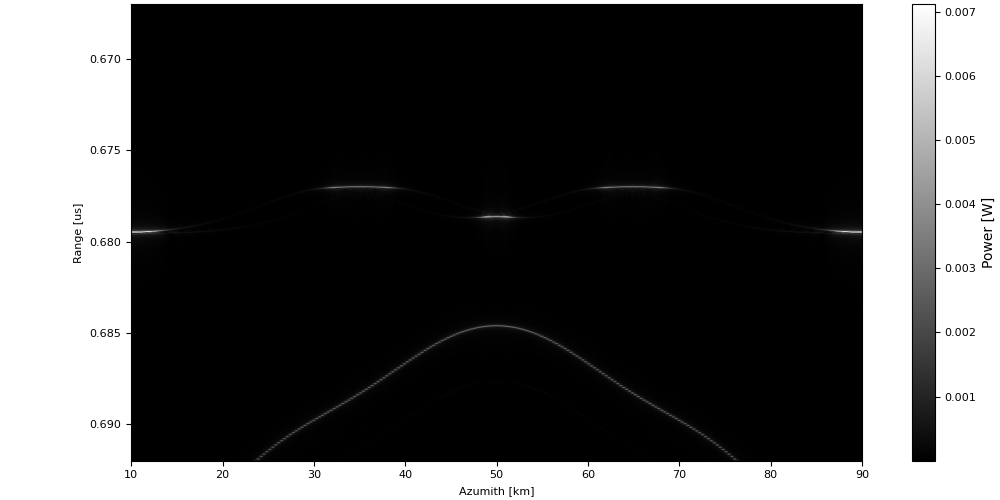
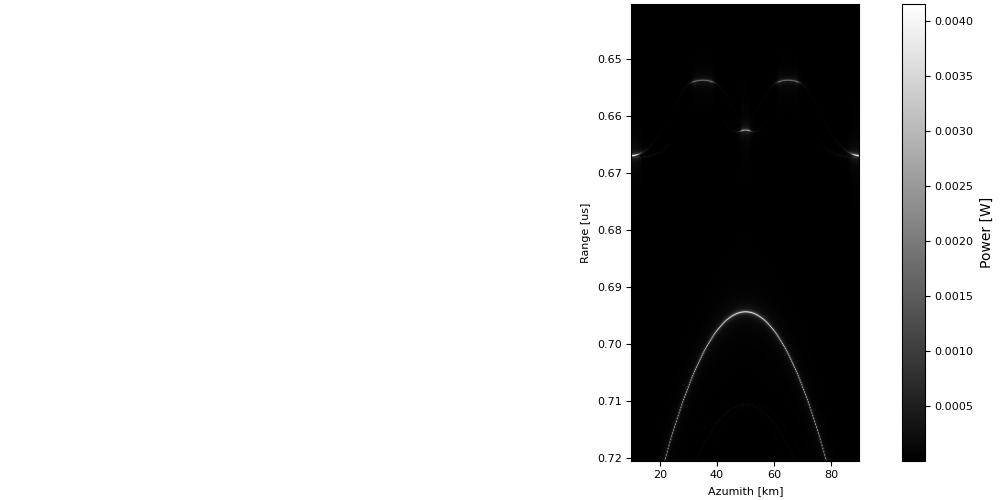
Fixed GPU bug causing extreme point target distortion

diff --git a/src/simulator.py b/src/simulator.py
@@ -1,6 +1,15 @@
 import numpy as np
 import plotly.graph_objects as go # type: ignore
 import matplotlib.pyplot as plt
+import matplotlib
+
+#matplotlib.use("pgf")
+#matplotlib.rcParams.update({
+#    "pgf.texsystem": "pdflatex",
+#    'font.family': 'serif',
+#    'text.usetex': True,
+#    'pgf.rcfonts': False,
+#})
 
 from math import sqrt
 from time import time as Time
@@ -214,7 +223,7 @@ def run_sim_terrain(terrain, dims, sources, target, reflect=True, progress=True,
             aspect = par['aspect']
         else:
             aspect = 0.5
-        extent = (xmin, xmax, np.max(ts) / 1e-6, np.min(ts) / 1e-6)
+        extent = (xmin, xmax, model.t_en, model.t_st)
         fig, ax = plt.subplots(1, figsize=(10, 5), constrained_layout=True)
         im = ax.imshow(np.abs(rdrgrm), cmap="gray", aspect=aspect, extent=extent, vmax=np.percentile(np.abs(rdrgrm), 99.99))
         ax.set_xlabel("Azumith [km]", fontsize=8)
@@ -238,7 +247,7 @@ def run_sim_terrain(terrain, dims, sources, target, reflect=True, progress=True,
     elif refl_dist:
         output.append(refl_dists)
     else:
-        output.append(model.ts)
+        output.append(ts)
 
     return output
 
@@ -361,6 +370,10 @@ class Model():
         if "sampling"         in par: self.sampling         = par['sampling']
         if "range_resolution" in par: self.range_resolution = par['range_resolution']
         if "lambda"           in par: self.lam              = par['lambda']
+
+        # start and end times in microseconds for the rx window
+        self.t_st = 2 * (self.rx_window_offset / self.c) * 10 ** 6
+        self.t_en = 2 * ((self.rx_window_offset + self.rx_window_m) / self.c) * 10 ** 6
 
         # angular wavenumber
         self.k                = (2 * np.pi) / self.lam
@@ -571,11 +584,21 @@ class Model():
     
         return rp
 
-    def gen_s2f_cpu(self, offsetx=0, offsety=0):
+    def gen_s2f_cpu(self, refl=False, offsetx=0, offsety=0, force_normal=True):
 
-        rp_s2f_C = np.stack(((self.source.x - self.surface.X) + offsetx, 
-                             (self.source.y - self.surface.Y) + offsety,
-                             (self.source.z - self.surface.zs)))
+        if not self.refl_surf or force_normal:
+            rp_s2f_C = np.stack(((self.source.x - self.surface.X) + offsetx, 
+                                 (self.source.y - self.surface.Y) + offsety,
+                                 (self.source.z - self.surface.zs)))
+        elif refl == False:
+            rp_s2f_C = np.stack(((np.asarray(self.source.x) - np.asarray(self.refr_surf.X)) + offsetx, 
+                                (np.asarray(self.source.y) - np.asarray(self.refr_surf.Y)) + offsety,
+                                (np.asarray(self.source.z) - np.asarray(self.refr_surf.zs))))
+        elif refl == True:
+            rp_s2f_C = np.stack(((np.asarray(self.source.x) - np.asarray(self.refl_surf.X)) + offsetx, 
+                                (np.asarray(self.source.y) - np.asarray(self.refl_surf.Y)) + offsety,
+                                (np.asarray(self.source.z) - np.asarray(self.refl_surf.zs))))
+    
         rp_s2f_S = cart_to_sp(rp_s2f_C, vec=True)
         # reverse of source to facet
         rp_s2f_S = cart_to_sp(-1 * rp_s2f_C, vec=True)
@@ -591,7 +614,9 @@ class Model():
         surf_norms_SR = cart_to_sp(surf_norms * -1, vec=True)
 
         # first we need the raypath from source to facet
-        rp_s2f_C, rp_s2f_S = self.gen_s2f_cpu()
+        rp_s2f_C, rp_s2f_S = self.gen_s2f_cpu(False, force_normal=False)
+
+        #print(np.mean(rp_s2f_S[0, :, :]))
 
         rp_s2f_S_rF = rp_s2f_S - surf_norms_S
         rp_s2f_S_rF[2, :, :] -= np.pi
@@ -625,16 +650,17 @@ class Model():
             re = np.abs(rho_v)**2
             tr = 1 - re
 
+        # generate array for % energy transmitted
+        if self.polarization is None:
+            tr = np.ones_like(self.surface.zs) * self.tau * self.tau_rev
+            re = 1 - tr
+
         # manipulate coefficients if surface roughness enabled
         if self.rough == True:
             psi_1 = self.ks * np.cos(theta_1)
             re *= np.exp(-4 * psi_1**2)
             psi_2 = self.ks * np.cos(theta_2)
             tr *= np.exp(-4 * psi_2**2)
-
-        # generate array for % energy transmitted
-        if self.polarization is None:
-            tr = np.ones_like(self.surface.zs) * self.tau * self.tau_rev
 
         facet_incident = cart_to_sp(rp_f2t_CN, vec=True)
 
@@ -687,6 +713,7 @@ class Model():
         self.comp_val = np.copy(tr)
         self.path_time = (rp_s2f_S[0, :, :] / self.c1 + rp_f2t_S[0, :, :] / self.c2) * 2
         self.slant_range = rp_s2f_S[0, :, :] + rp_f2t_S[0, :, :]
+        self.refr_atm_slant_range = rp_s2f_S[0, :, :]
         self.refr_dth  = rp_f2t_SD_rF[1, :, :]
         self.refr_dph  = rp_f2t_SD_rF[2, :, :]
         
@@ -703,6 +730,26 @@ class Model():
 
                 rp_s2f_S_rF = rp_s2f_S - surf_norms_S
                 rp_s2f_S_rF[2, :, :] -= cp.pi
+
+            elif self.refr_surf:
+
+                rp_s2f_C, rp_s2f_S = self.gen_s2f_cpu(True, force_normal=False)
+                rp_s2f_S_rF = rp_s2f_S - surf_norms_S
+                rp_s2f_S_rF[2, :, :] -= np.pi
+
+                # if using a difference surface for refraction calculations we need to compute the 
+                # reflection coefficients differently
+                theta_1 = rp_s2f_S_rF[2, :, :]
+
+                # temporary theta_2 to just make things work
+                theta_2 = -0.35
+
+                if self.polarization == "h":
+                    rho_h = (self.nu2 * np.cos(theta_1) - self.nu1 * np.cos(theta_2)) / (self.nu2 * np.cos(theta_1) + self.nu1 * np.cos(theta_2))
+                    re = np.abs(rho_h)**2
+                elif self.polarization == "v":
+                    rho_v = (self.nu2 * np.cos(theta_2) - self.nu1 * np.cos(theta_1)) / (self.nu2 * np.cos(theta_2) + self.nu1 * np.cos(theta_1))
+                    re = np.abs(rho_v)**2
             
             if self.polarization is None:
                 # generate array for % energy reflected
@@ -785,14 +832,14 @@ class Model():
             rho_v = (self.nu2 * cp.cos(theta_2) - self.nu1 * cp.cos(theta_1)) / (self.nu2 * cp.cos(theta_2) + self.nu1 * cp.cos(theta_1))
             tr = 1 - cp.abs(rho_v)**2
 
+        # default transmission coefficient
+        if self.polarization is None:
+            tr = cp.ones_like(cp.asarray(self.surface.zs)) * self.tau * self.tau_rev
+
         # surface roughness
         if self.rough:
             psi_2 = self.ks * cp.cos(theta_2)
             tr *= cp.exp(-4 * psi_2**2)
-
-        # default transmission coefficient
-        if self.polarization is None:
-            tr = cp.ones_like(cp.asarray(self.surface.zs)) * self.tau * self.tau_rev
 
         facet_incident = cart_to_sp(rp_f2t_CN, vec=True)
 
@@ -835,6 +882,7 @@ class Model():
         self.comp_val = cp.asnumpy(cp.copy(tr))
         self.path_time = cp.asnumpy((rp_s2f_S[0, :, :] / self.c1 + rp_f2t_S[0, :, :] / self.c2) * 2)
         self.slant_range = rp_s2f_S[0, :, :] + rp_f2t_S[0, :, :]
+        self.refr_atm_slant_range = rp_s2f_S[0, :, :]
         self.refr_dth  = cp.asnumpy(rp_f2t_SD_rF[1, :, :])
         self.refr_dph  = cp.asnumpy(rp_f2t_SD_rF[2, :, :])
         
@@ -1196,7 +1244,7 @@ class Model():
             max_idx = np.argmax(self.tr)
             rb_max, trc_max = np.unravel_index(max_idx, self.tr.shape)
             # compute the effective slant range - correcting for velocity change in subsurface
-            eff_slant_range = self.refl_slant_range + (self.slant_range - self.refl_slant_range) * (self.c1 / self.c2)
+            eff_slant_range = self.refr_atm_slant_range + (self.slant_range - self.refr_atm_slant_range) * (self.c1 / self.c2)
             refrwav, self.phase_hist = compute_wav(self.tr, eff_slant_range, self.ssl, self.range_resolution, self.lam, rb_max, trc_max)
             sig_s += refrwav
             sig_t += sig_s
@@ -1301,7 +1349,7 @@ class Model():
             max_idx = cp.argmax(self.tr)
             rb_max, trc_max = cp.unravel_index(max_idx, self.tr.shape)
 
-            eff_slant_range = self.refl_slant_range + (self.slant_range - self.refl_slant_range) * (self.c1 / self.c2)
+            eff_slant_range = self.refr_atm_slant_range + (self.slant_range - self.refr_atm_slant_range) * (self.c1 / self.c2)
 
             refrwav, self.phase_hist = compute_wav_gpu(self.tr, eff_slant_range, cp.asarray(self.ssl),
                                                    self.range_resolution, self.lam, rb_max, trc_max)

diff --git a/examples/double_ridge/double_ridge.py b/examples/double_ridge/double_ridge.py
@@ -5,6 +5,7 @@ from terrain import *
 from surface import *
 from source import *
 from simulator import *
+from focus import *
 
 # --- GENERATE TERRAIN OBJECT ---
 
@@ -25,8 +26,10 @@ terrain.double_ridge(2, 2, 30, 20, 50)
 
 f0 = 5e9
 B  = 6e9
+N  = 250
+stx, enx = 10, 90
 
-ss = source_linspace('x', 10, 90, 0, 100, 250, f0, B)
+ss = source_linspace('x', stx, enx, 0, 100, N, f0, B)
 
 # target location
 t = (50, 0, -2)   # target location (x, y, z)
@@ -41,18 +44,69 @@ ss[0].plot(savefig="chirp.png")
 
 # --- CHANGE SIM PARS ---
 
-Rr = 299792458 / (2 * B)
+c        = 299792458   # speed of light [m/s]
+lam      = 0.06        # wavelength [m]
+rng_st   = 96          # starting range [m]
+rng_en   = 108         # ending range [m]
+rng_res  = c / (2 * B) # range resolution [m]
+sampl    = 25e9        # sampling rate [Hz]
+dt       = 1 / sampl   # time interval [s]
+dt_m     = dt * c      # space interval [m]
+
+# how many range bins?
+rb = int(((rng_en - rng_st) / c) / (1 / sampl))
 
 par = {
-    "rx_window_offset": 90,   # [m]
-    "rx_window_m"     : 20,   # [m]
-    "sampling"        : 15e9,  # [Hz]
-    "range_resolution": Rr,  # [m]
+    "rx_window_offset": rng_st,   # [m]
+    "rx_window_m"     : rng_en-rng_st,   # [m]
+    "sampling"        : sampl,  # [Hz]
+    "range_resolution": rng_res,  # [m]
     "lambda"          : 0.06, # [m]
     "aspect"          : 2000,   # [.]
-    "surf_gain"       : 98,
+    "surf_gain"       : 96,
 }
 
 rdrgrm, ts = run_sim_terrain(terrain, dims, ss, t, reflect=True, polarization='h',
                              xmin=10, xmax=90, gpu=True, savefig="rdrgrm-doubleridge.png", 
-                             rough=False, nsmpl=1000, par=par)
+                             rough=False, nsmpl=rb, par=par)
+
+# --- ATTEMPT TO FOCUS --
+
+sx = np.linspace(stx, enx, N)
+sz = 100
+c1 = 299792458
+c2 = c1 / np.sqrt(3.15)
+slantrange_est = est_slant_range(sx, sz, t[0], t[2], c1, c2)
+slantrange_time = 2 * 10**6 * slantrange_est / c1
+
+slant_rb = ((slantrange_est - rng_st) // dt_m).astype(int)
+
+k = (2 * np.pi) / par['lambda']
+
+match_filter = np.exp(-2j * k * slantrange_est)
+
+focused = focus_jit(rdrgrm, slant_rb, match_filter, rb)
+
+extent = (10, 90, 2*(rng_en/c)*10**6, 2*(rng_st/c)*10**6)
+fig, ax = plt.subplots(2, 1, figsize=(10, 6), constrained_layout=True, dpi=300, sharex=True)
+
+im0 = ax[0].imshow(np.abs(rdrgrm), cmap="gray", aspect=par['aspect']/3, extent=extent)
+im1 = ax[1].imshow(np.abs(focused), cmap="gray", aspect=par['aspect']/3, extent=extent)
+
+labels = ["(a) Unfocused", "(b) Focused"]
+for a, label in zip(ax, labels):
+    a.set_ylabel("Range [µs]", fontsize=11)
+    a.tick_params(axis="both", which="major", labelsize=9, direction="in")
+    a.tick_params(axis="both", which="minor", direction="in")
+    a.text(0.02, 0.95, label, transform=a.transAxes, fontsize=11,
+           fontweight="bold", va="top", ha="left", color="black",
+           bbox=dict(facecolor="white", alpha=0.6, edgecolor="none", pad=2))
+
+ax[1].set_xlabel("Azimuth [m]", fontsize=11)
+
+cbar = fig.colorbar(im1, ax=ax, orientation="vertical", fraction=0.025, pad=0.04)
+cbar.set_label("Power [W]", fontsize=11)
+cbar.ax.tick_params(labelsize=9)
+
+plt.savefig("focused.png", dpi=300, bbox_inches="tight")
+plt.close()

diff --git a/src/util.py b/src/util.py
@@ -179,7 +179,7 @@ def target_function_sinusoidal(phi, theta, f=10):
     return (np.cos(f * phi) + 1) + (np.cos(f * theta) + 1)
 
 
-def target_function_gaussian(phi, theta, phi0=0, sigma=3, scale=1, verb=False):
+def target_function_gaussian(phi, theta, phi0=0, sigma=2, scale=1, verb=False):
 
     phi_deg = phi * (180 / np.pi)
     phi_deg = (phi_deg + 180) % 360 - 180
